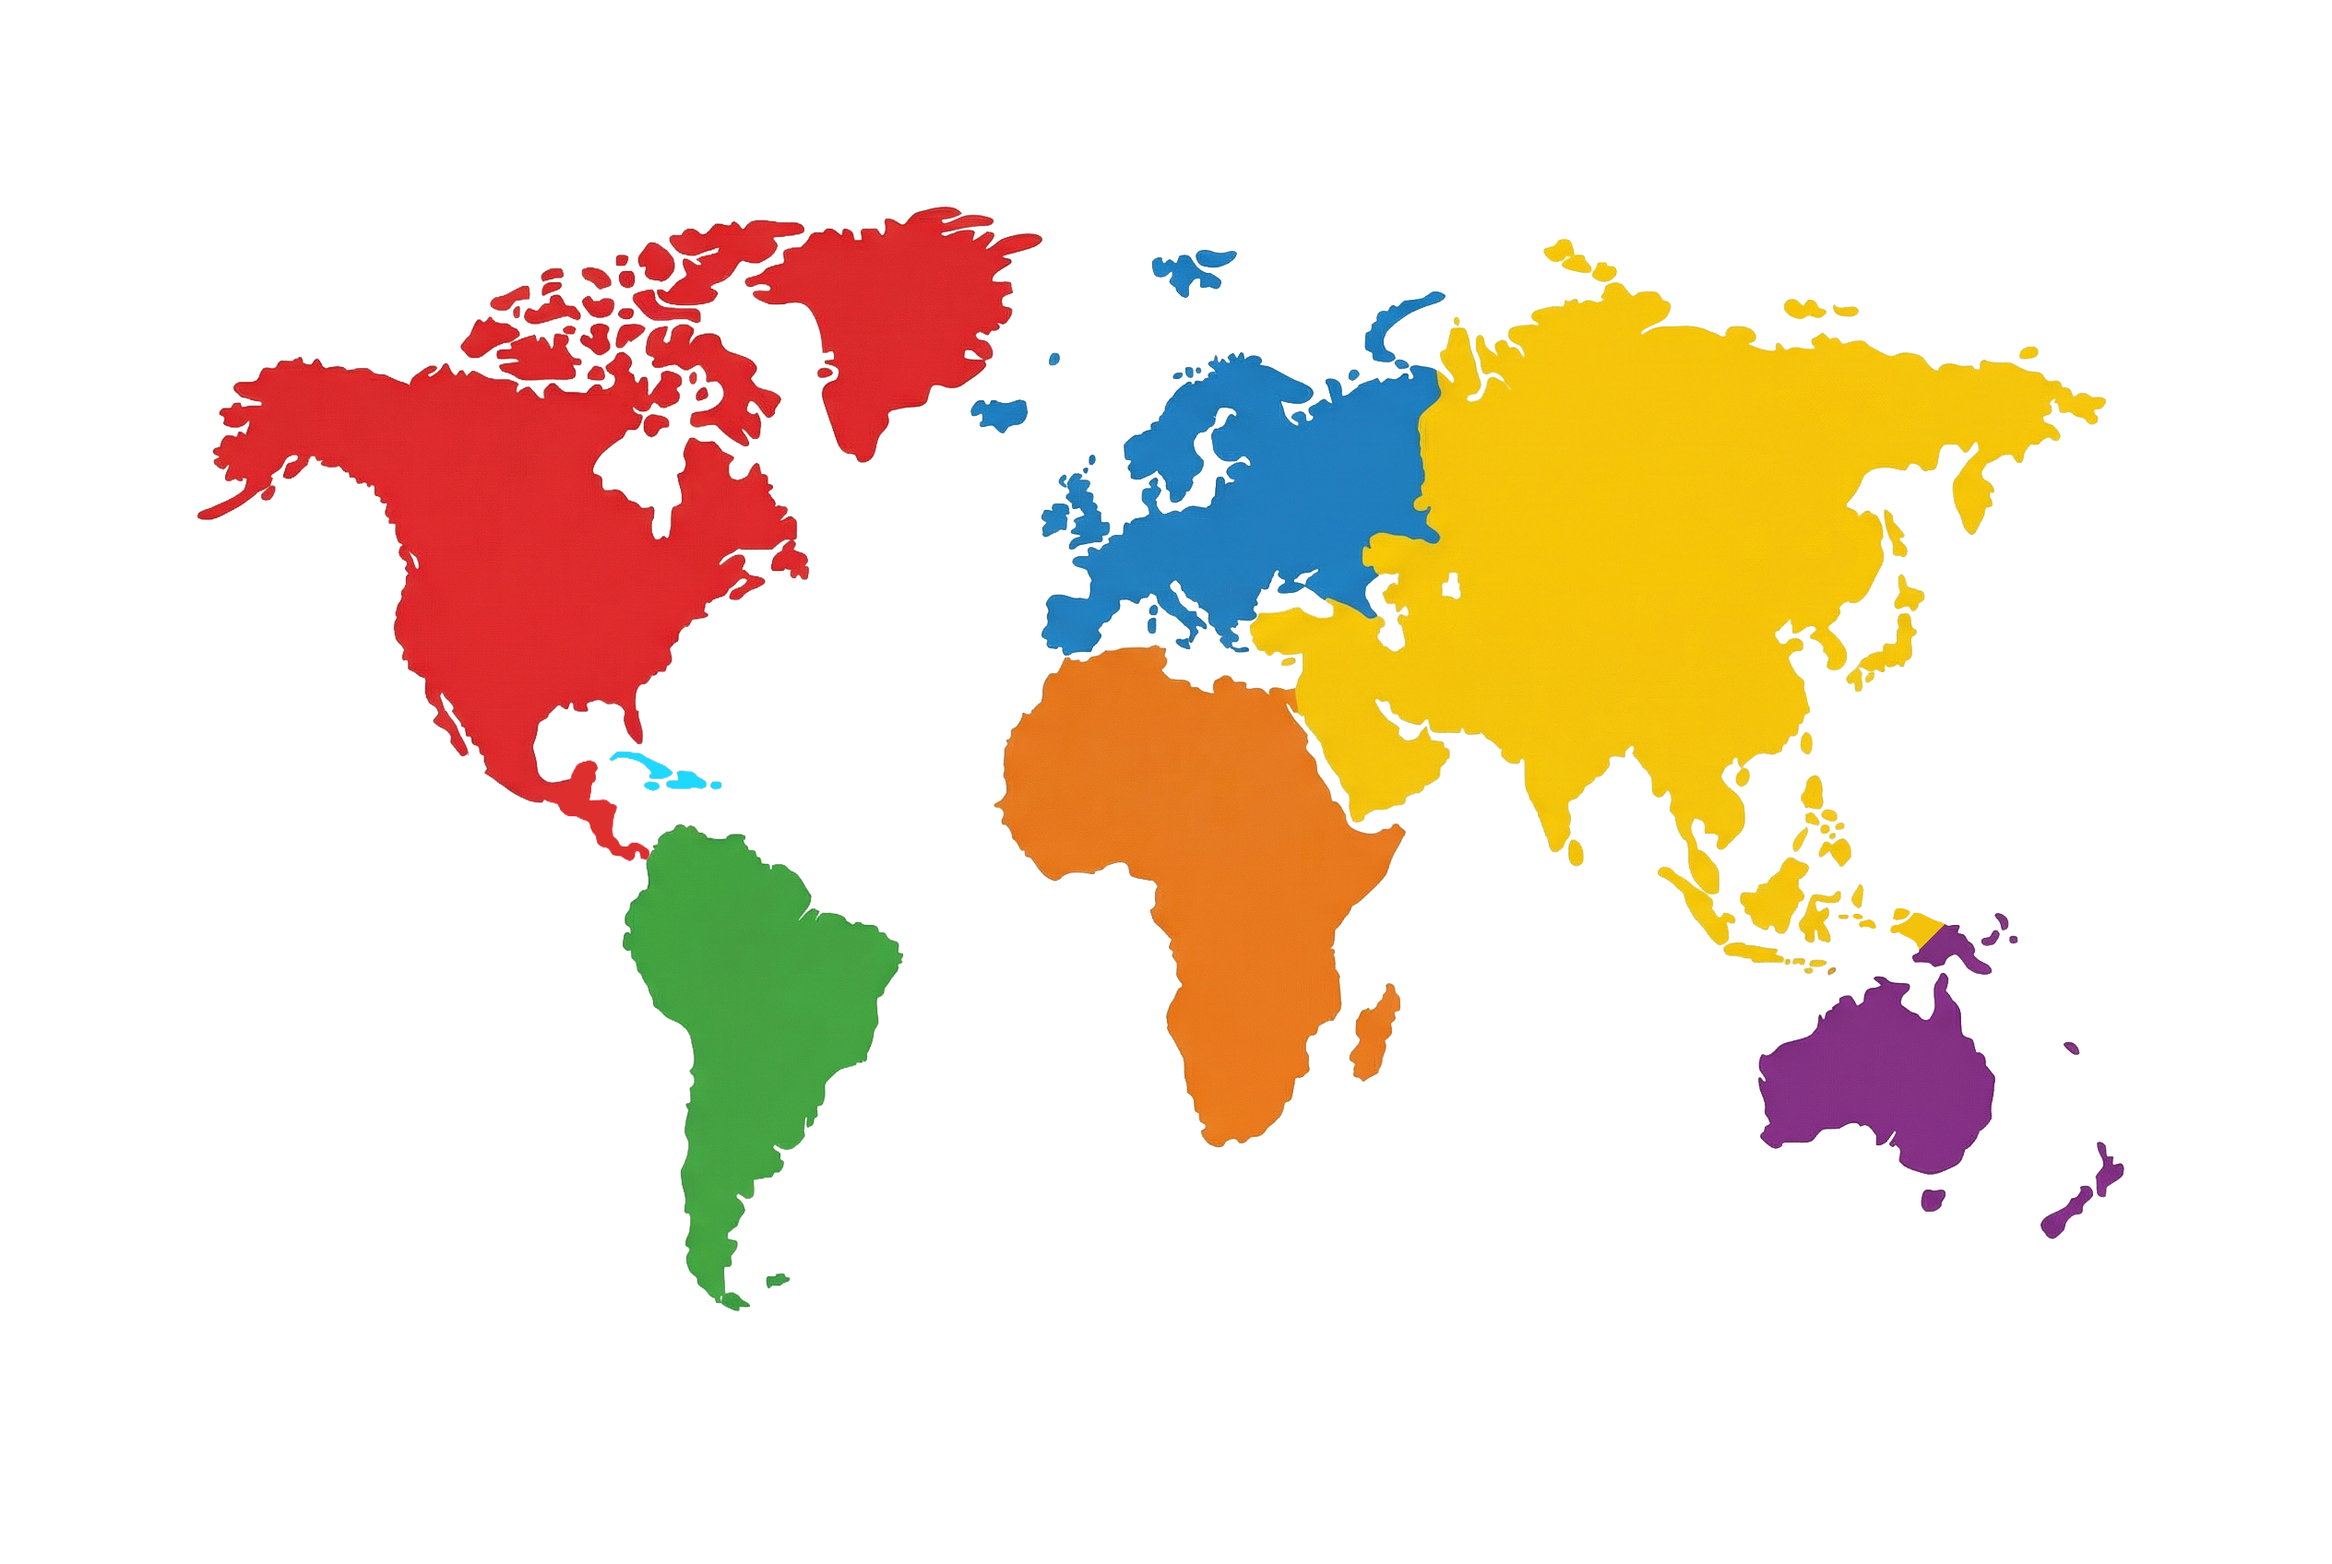
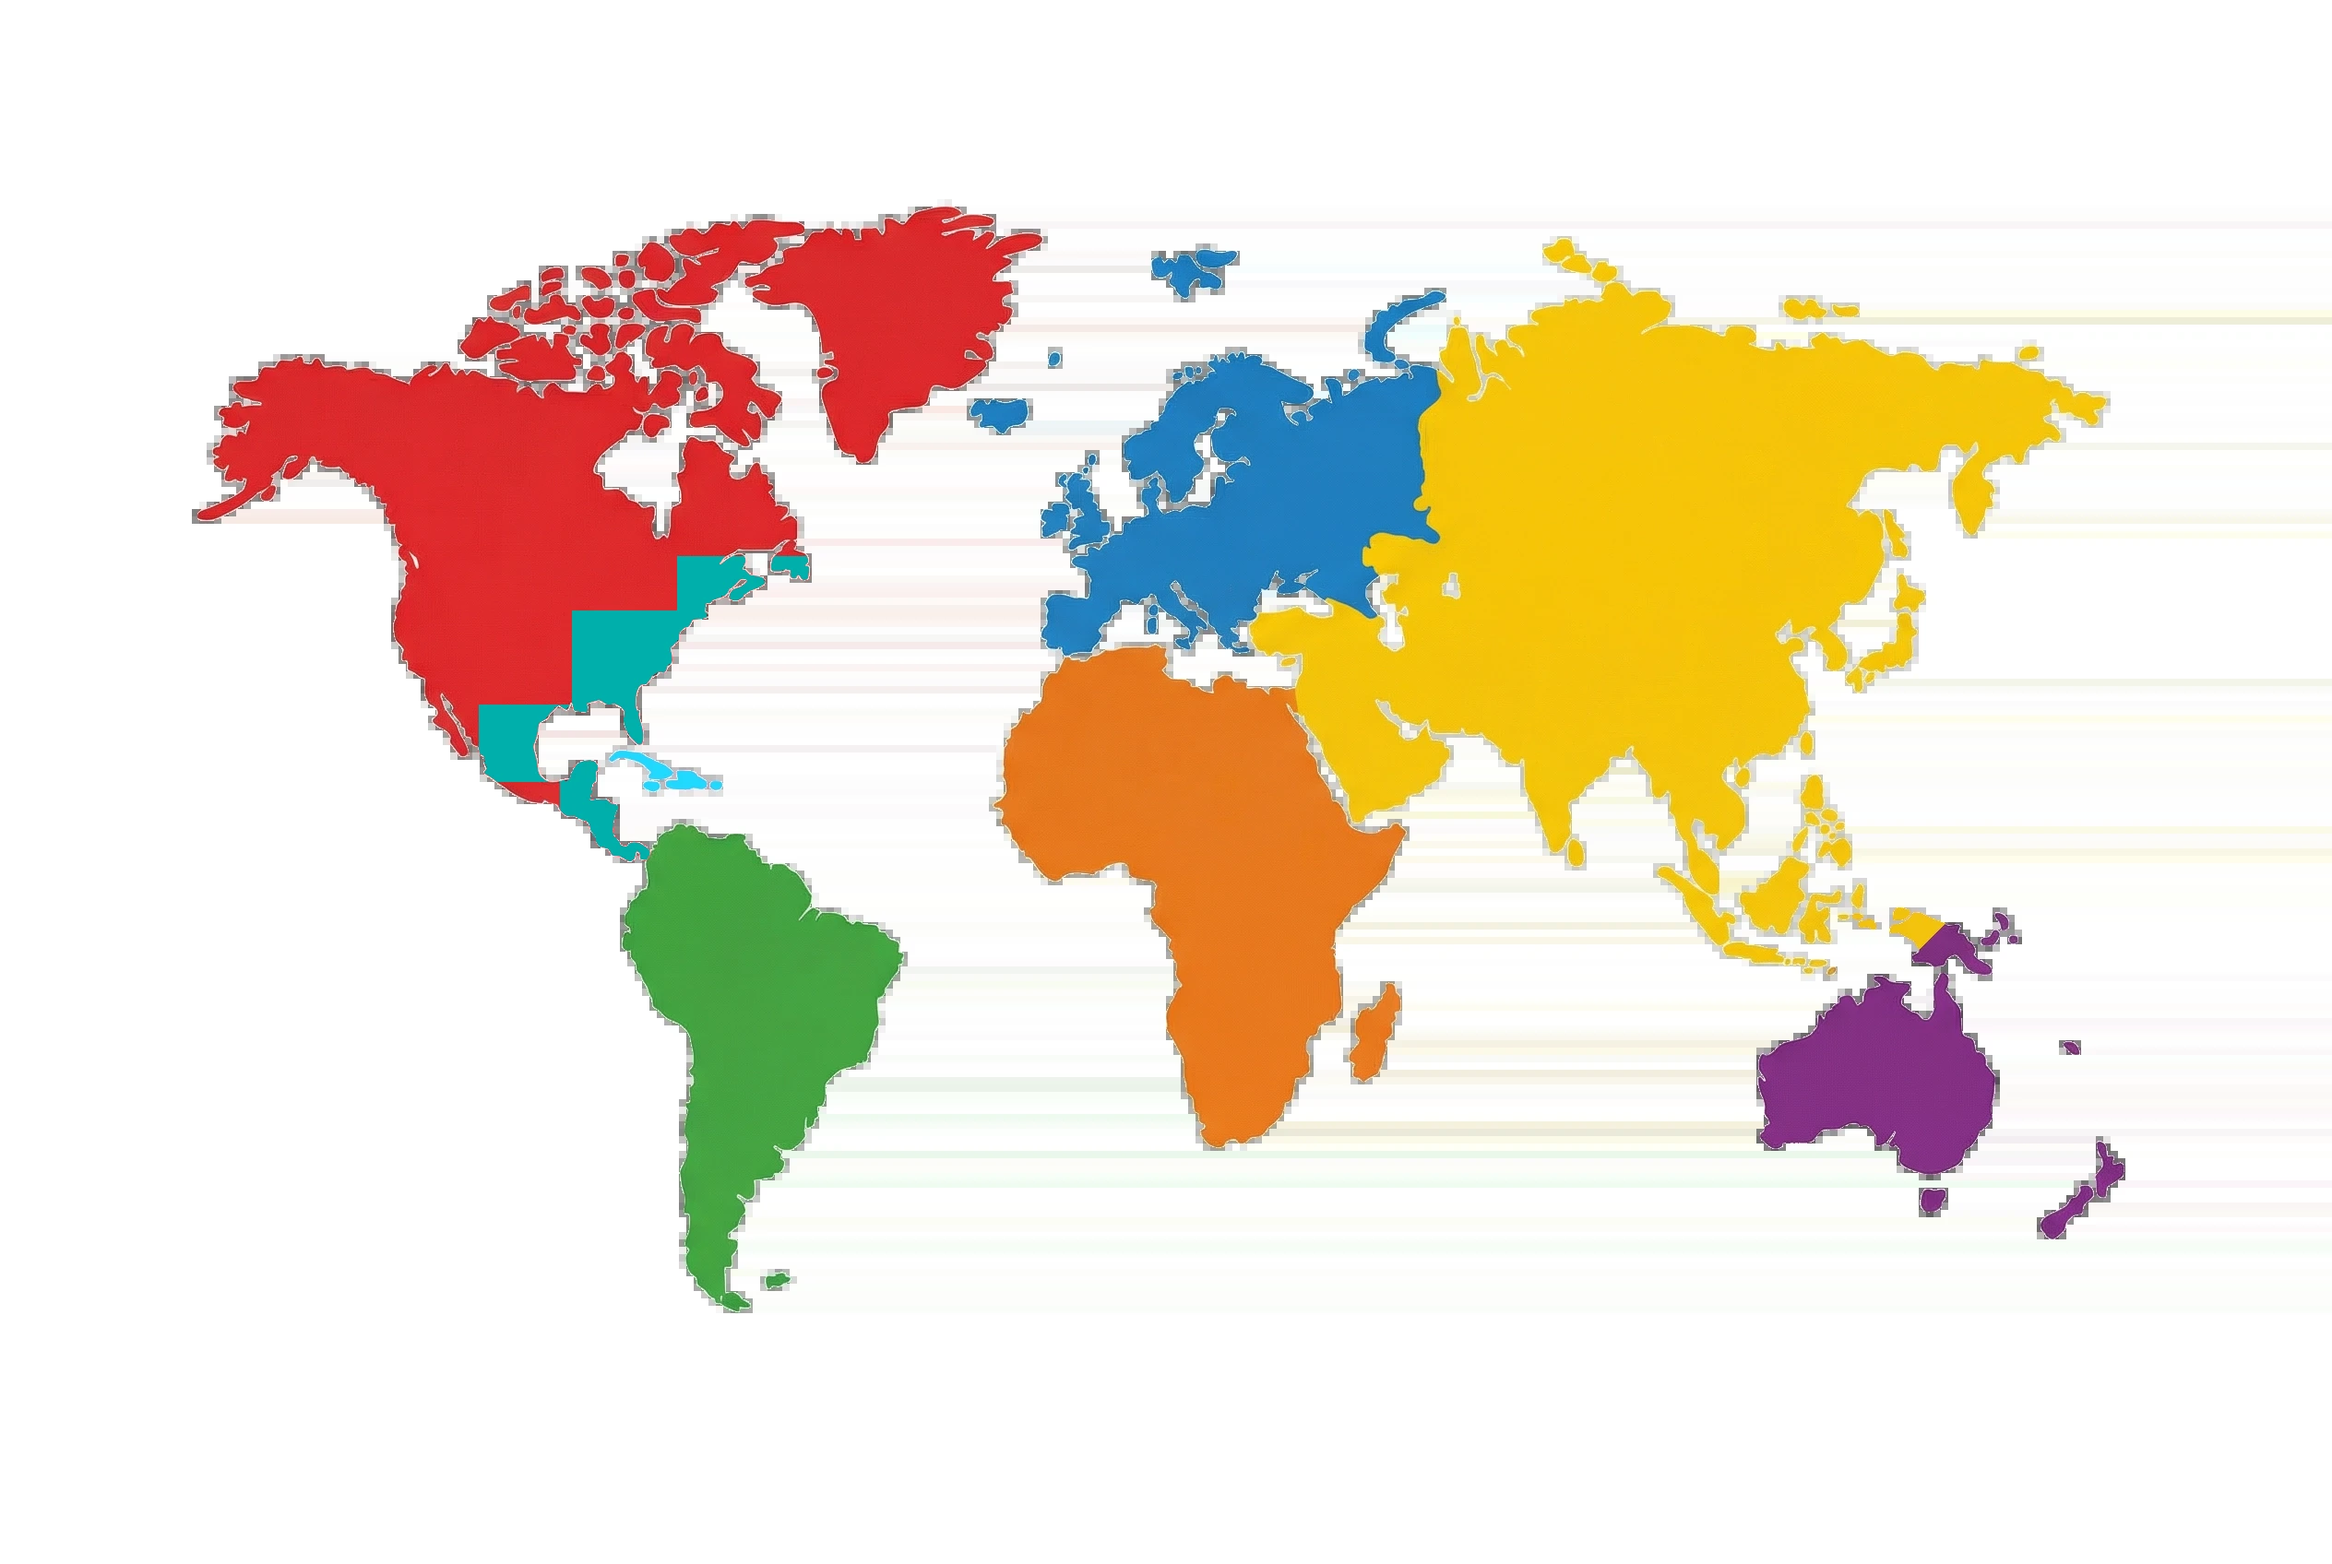
Add turquoise color for Västindien on world map
Paint Caribbean islands turquoise on the world map so they are visually
distinct from North America (red). Add västindien to CONTINENT_COLORS
for color-based detection, replacing the old position-based hack.

https://claude.ai/code/session_013JUJ2Y3eJczT5KVgFThu1P

diff --git a/game.js b/game.js
@@ -1190,6 +1190,7 @@ const CONTINENT_COLORS = [
   { slug: 'afrika', name: 'Afrika', r: 229, g: 120, b: 33 },
   { slug: 'asien', name: 'Asien', r: 246, g: 198, b: 10 },
   { slug: 'oceanien', name: 'Oceanien', r: 131, g: 47, b: 129 },
+  { slug: 'vastindien', name: 'Västindien', r: 0, g: 175, b: 170 },
 ];
 
 // Countries that exist in multiple regions — either region is correct
@@ -1213,13 +1214,6 @@ function detectContinent(px, py) {
   }
   if (bestDist > 12000) return null;
 
-  // Caribbean zone → Västindien (expanded zone)
-  if (best.slug === 'nordamerika') {
-    const pctX = px / worldMapW, pctY = py / worldMapH;
-    if (pctX > 0.17 && pctX < 0.36 && pctY > 0.35) {
-      return { slug: 'vastindien', name: 'Västindien' };
-    }
-  }
   return best;
 }
 
@@ -1357,8 +1351,8 @@ function generateContinentHovers() {
   // Create highlight overlay images for each continent from world map pixel data
   if (!worldMapPixelData) return;
 
-  // Group all continent slugs (including vastindien as part of nordamerika color)
-  const continentSlugs = CONTINENT_COLORS.map(c => c.slug).concat('vastindien');
+  // Group all continent slugs (vastindien now has its own color on the map)
+  const continentSlugs = CONTINENT_COLORS.map(c => c.slug);
 
   for (const slug of continentSlugs) {
     const canvas = document.createElement('canvas');
@@ -1383,16 +1377,7 @@ function generateContinentHovers() {
         }
         if (bestDist > 12000 || !pixelContinent) continue;
 
-        // Determine actual slug (Caribbean zone)
-        let actualSlug = pixelContinent.slug;
-        if (pixelContinent.slug === 'nordamerika') {
-          const pctX = x / worldMapW, pctY = y / worldMapH;
-          if (pctX > 0.17 && pctX < 0.36 && pctY > 0.35) {
-            actualSlug = 'vastindien';
-          }
-        }
-
-        if (actualSlug === slug) {
+        if (pixelContinent.slug === slug) {
           // White highlight pixel
           data[idx] = 255;
           data[idx + 1] = 255;
